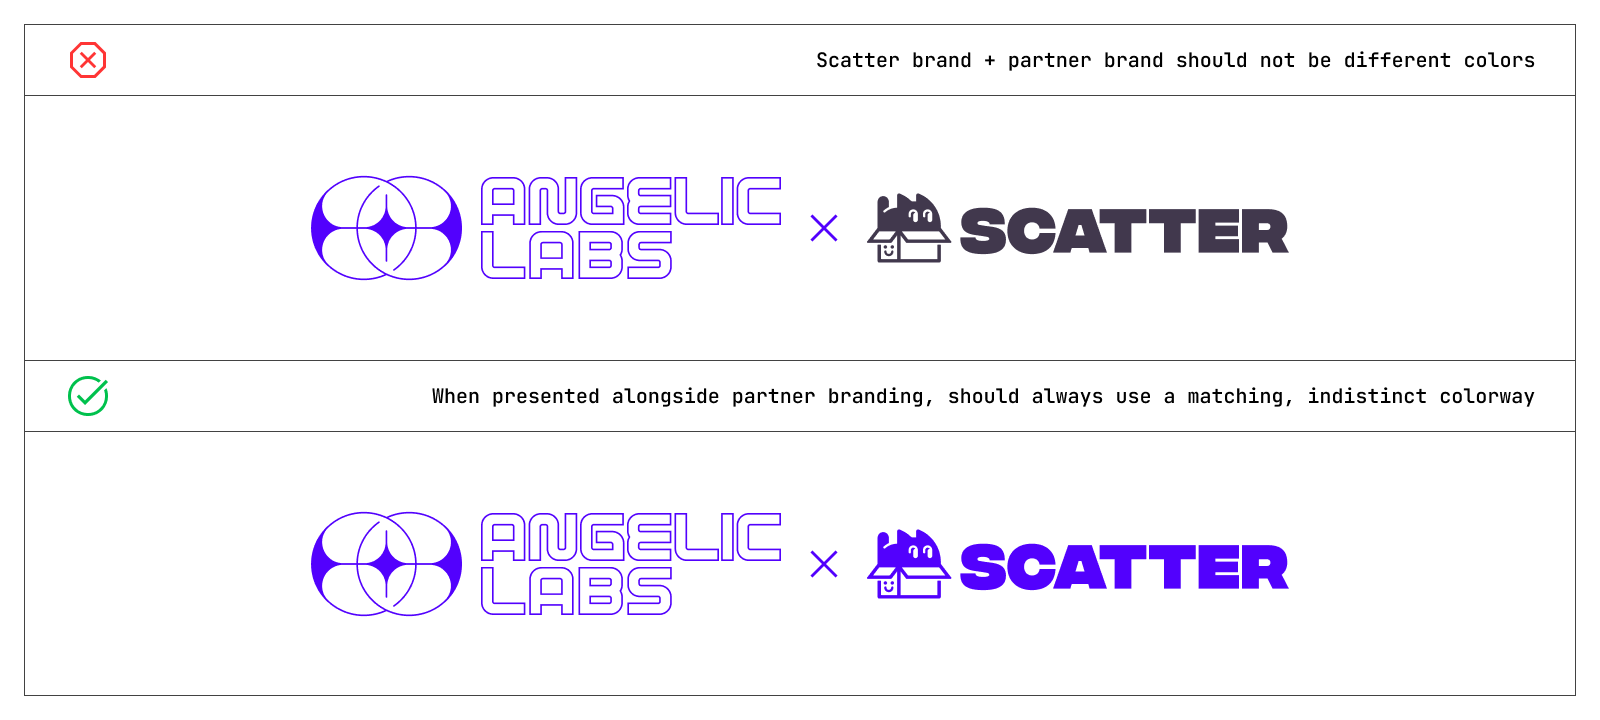
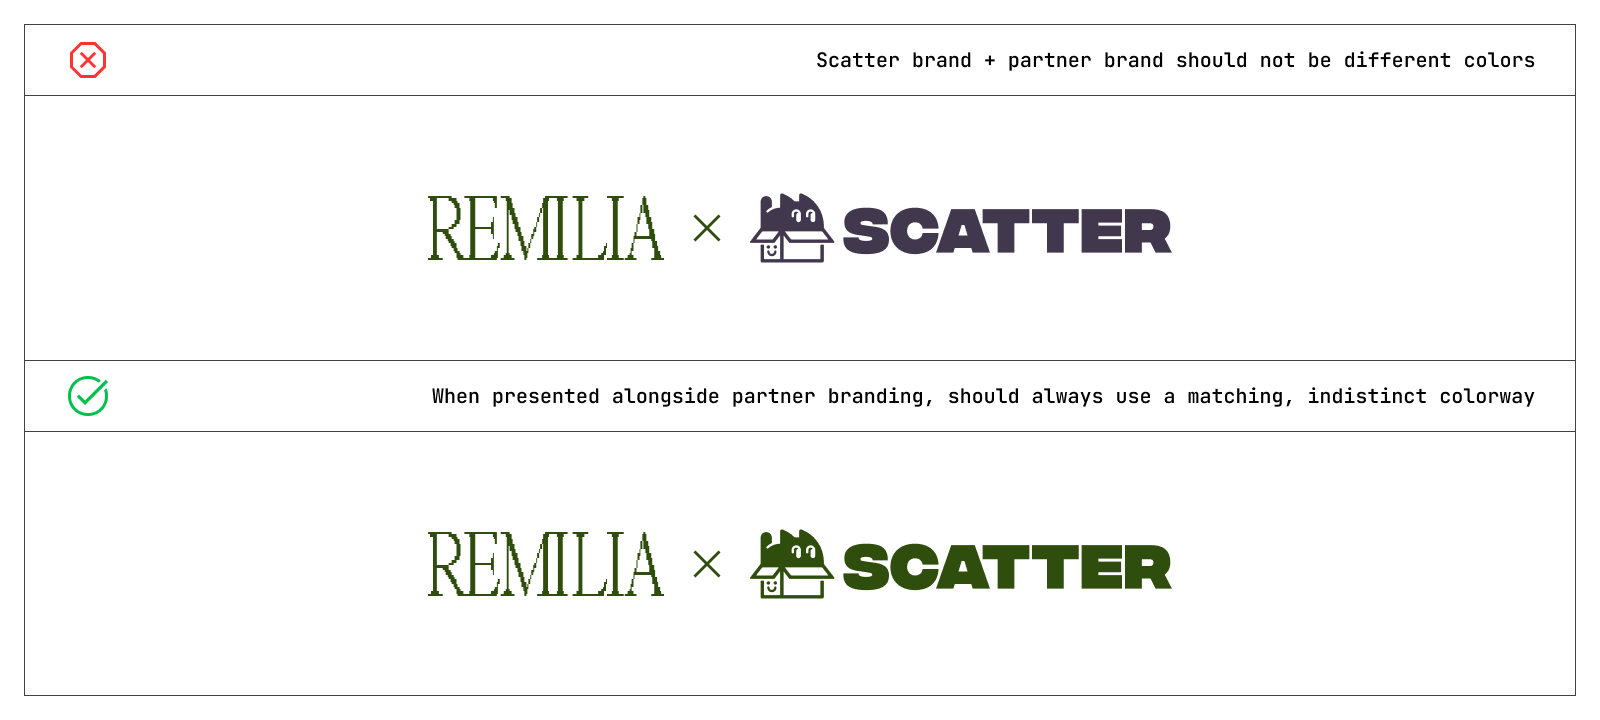
update examples

Changed region(s): [[0.1875, 0.7028, 0.8125, 0.8556], [0.1875, 0.2444, 0.8125, 0.3972]]

diff --git a/README.md b/README.md
@@ -85,8 +85,6 @@ Adding a characteristic 'glow' to Scatter brand elements is encouraged, however 
 
 When presented in third-party contexts, the Scatter brand can freely be presented using the third-party brand colors, as long as an approximate minimum contrast ratio of 4.5:1 is preserved.
 
-![](./guide/examples/example-partner-color.png)
-
 ### Usage
 
 ![](./guide/examples/example-color-mix.png)
